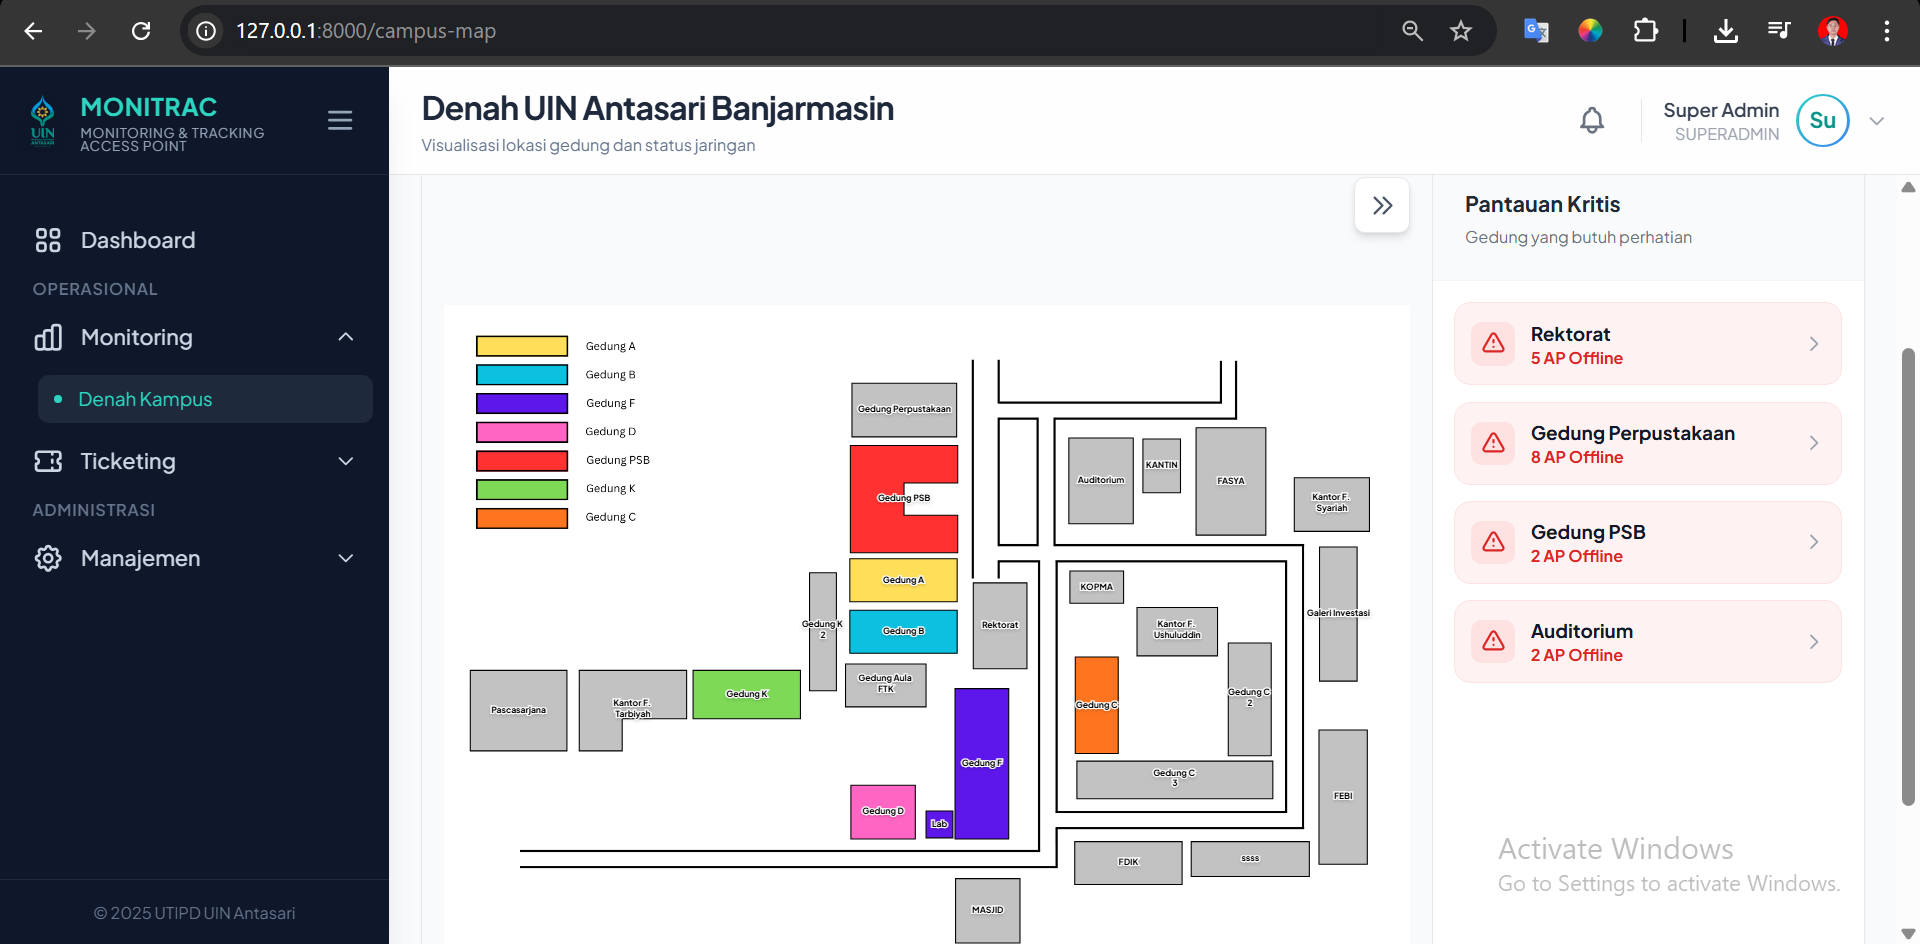
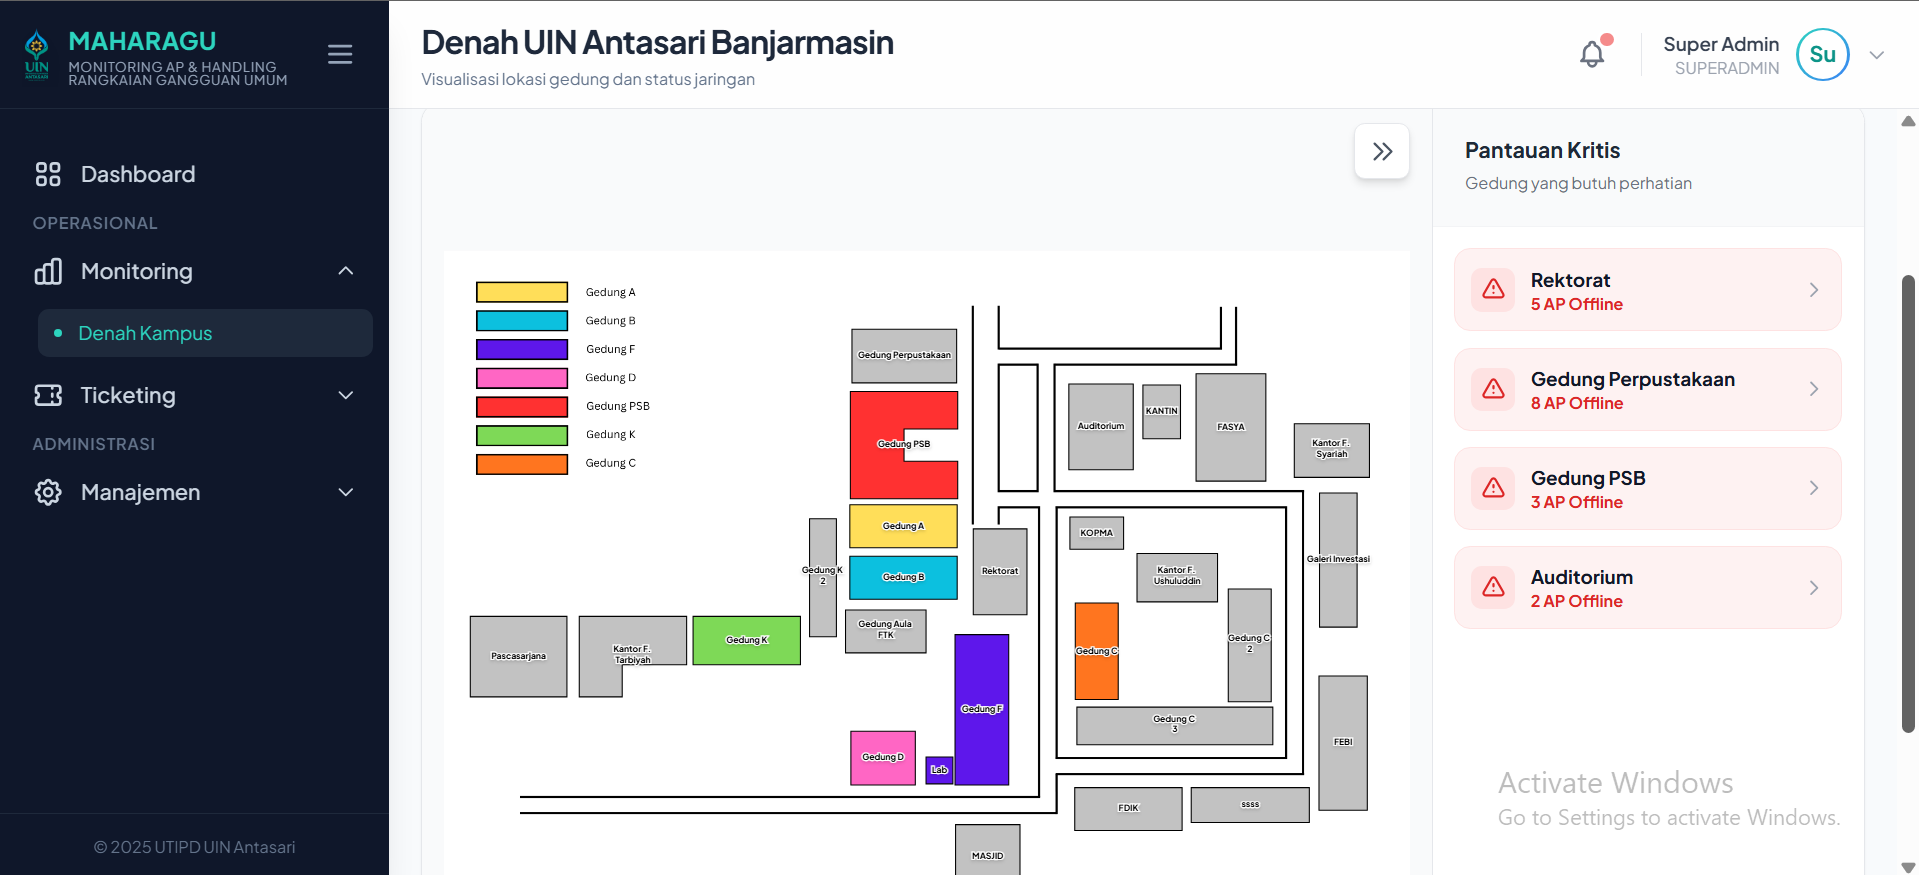
update README.md

diff --git a/README.md b/README.md
@@ -60,8 +60,8 @@ Ikuti langkah-langkah berikut untuk menjalankan project di komputer lokal:
 
 1.  **Clone Repository**
     ```bash
-    git clone [https://github.com/akmalfitrianto/ticketing-dan-monitoring-AccessPoint-UIN-Antasari-Banjarmasin](https://github.com/akmalfitrianto/ticketing-dan-monitoring-AccessPoint-UIN-Antasari-Banjarmasin)
-    cd nama-repo
+    git clone [https://github.com/akmalfitrianto/MAHARAGU](https://github.com/akmalfitrianto/MAHARAGU)
+    cd MAHARAGU
     ```
 
 2.  **Install Dependencies**
